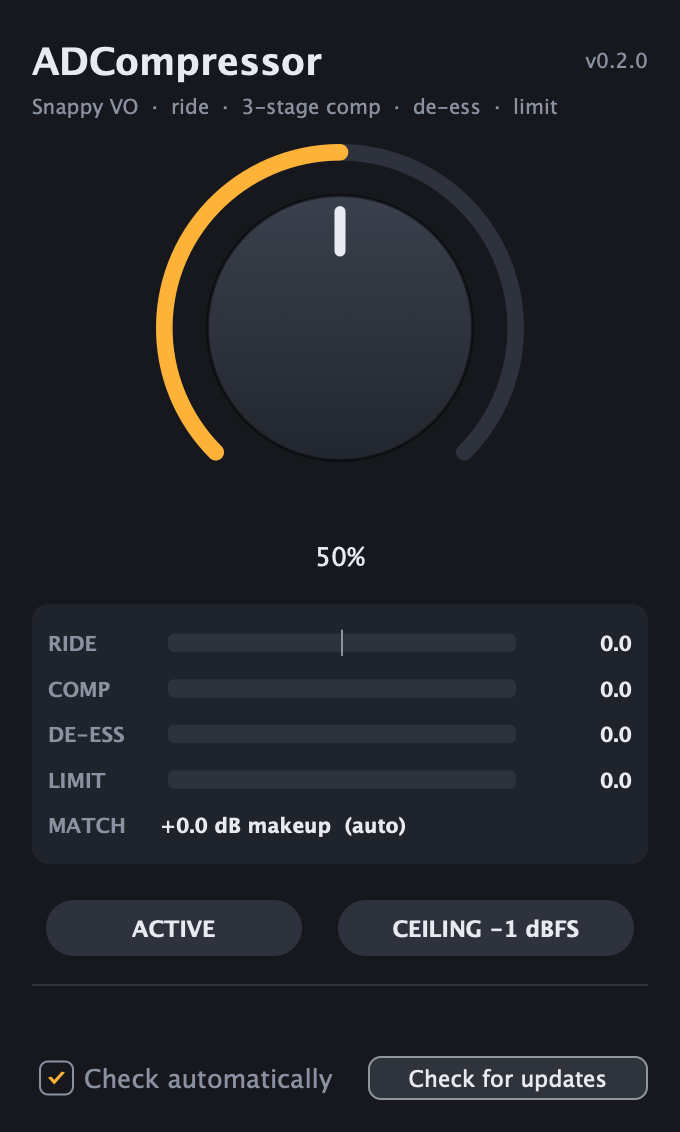
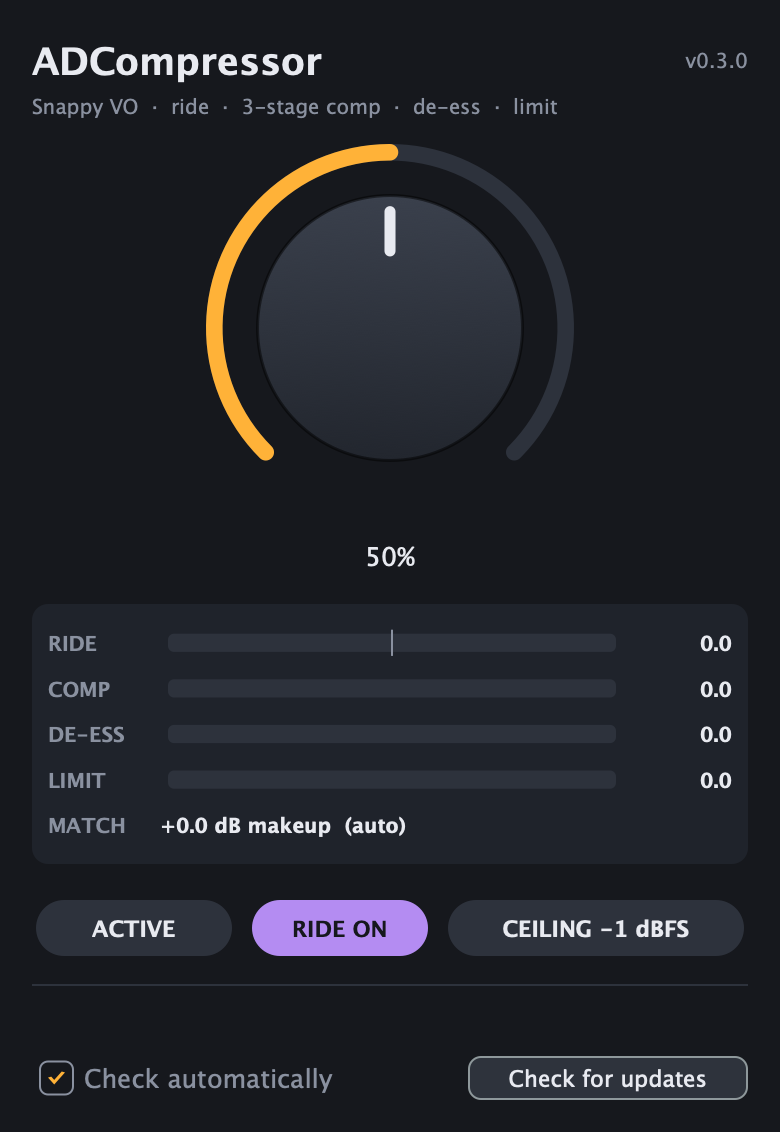
ADCompressor 0.3.0: Ride switch to turn the slow rider on or off
- New "ride" parameter (Ride, on by default), so sessions saved by
  earlier versions sound the same. When off, the rider's gain glides to
  0 dB over 200 ms (click-free during playback). The rider keeps
  learning while off, so it resumes at its learned level when turned
  back on. The compressors, de-esser, limiter and loudness match are
  unchanged.
- RIDE meter shows the gain actually applied (0 when off).
- Editor: purple RIDE ON / RIDE OFF pill between Bypass and Ceiling;
  window 390x566 (was 340) so three pills fit in one row.
- TestHost: alternating-level lines test (ride on vs off; ride off keeps
  the loudness match); --render-to takes an optional [on|off] ride arg.
- README and screenshot updated.

New parameter only; no identity or existing parameter changes.

diff --git a/Tests/TestHost.cpp b/Tests/TestHost.cpp
@@ -8,7 +8,7 @@
 // Usage:
 //   ADCompressorTest                       run the test suite
 //   ADCompressorTest --render take.wav     render a take at 0/50/100% next to it
-//   ADCompressorTest --render-to in.wav out.wav [amount] [ceiling]   one offline bounce (e.g. 100 -6)
+//   ADCompressorTest --render-to in.wav out.wav [amount] [ceiling] [ride]   one offline bounce (e.g. 100 -6 off)
 //   ADCompressorTest --calibrate take.wav  print steady-state makeup per knob position
 //   ADCompressorTest --trace [sampleRate]  print the learned reference/trim over time
 
@@ -269,7 +269,7 @@ int main (int argc, char* argv[])
         return 0;
     }
 
-    // --render-to <in.wav> <out.wav> [amount 0..100] [ceiling -1|-6]: one bounce
+    // --render-to <in.wav> <out.wav> [amount 0..100] [ceiling -1|-6] [ride on|off]: one bounce
     // through the plugin (like an offline bounce in a DAW), latency removed.
     if (argc >= 4 && juce::String (argv[1]) == "--render-to")
     {
@@ -278,11 +278,13 @@ int main (int argc, char* argv[])
         if (! reader) { std::cerr << "Can't read " << argv[2] << "\n"; return 1; }
         const float amount = argc >= 5 ? juce::String (argv[4]).getFloatValue() : 100.0f;
         const bool minus6 = argc >= 6 && juce::String (argv[5]).getFloatValue() < -3.0f;
+        const bool rideOn = ! (argc >= 7 && juce::String (argv[6]).equalsIgnoreCase ("off"));
         const int nCh = (int) std::min<unsigned> (2, reader->numChannels);
         const double sr = reader->sampleRate;
         auto inst = load (sr, 512, nCh);
         findParam (*inst, "Amount")->setValueNotifyingHost (amount / 100.0f);
         findParam (*inst, "Ceiling")->setValueNotifyingHost (minus6 ? 1.0f : 0.0f);
+        findParam (*inst, "Ride")->setValueNotifyingHost (rideOn ? 1.0f : 0.0f);
         const int lat = inst->getLatencySamples();
         juce::AudioBuffer<float> buf (nCh, (int) reader->lengthInSamples + lat);
         buf.clear();
@@ -298,7 +300,7 @@ int main (int argc, char* argv[])
                                                  .withSampleRate (sr).withNumChannels (nCh).withBitsPerSample (24));
         if (! w || ! w->writeFromAudioSampleBuffer (trimmed, 0, trimmed.getNumSamples())) { std::cerr << "Write failed\n"; return 1; }
         std::cout << "Rendered " << dest.getFullPathName() << " (" << amount << "%, ceiling " << (minus6 ? -6 : -1)
-                  << " dBFS, latency " << lat << ")\n";
+                  << " dBFS, ride " << (rideOn ? "on" : "off") << ", latency " << lat << ")\n";
         return 0;
     }
 
@@ -425,6 +427,39 @@ int main (int argc, char* argv[])
             const double lraOut = loudnessRange (run (*inst, scenes, cfg.block), cfg.sr, settle);
             std::cout << "  scene changes @100%: LRA " << juce::String (lraIn, 1) << " -> " << juce::String (lraOut, 1) << " LU\n";
             check (lraOut < lraIn * 0.5, "full amount at least halves loudness range (LRA) across scene changes");
+        }
+
+        // Ride switch. Lines alternate loud/quiet (8 dB apart, 3 s each, 1 s gaps):
+        // the level differences the rider evens out. Off must leave more of them.
+        {
+            const int line = (int) (3.0 * cfg.sr), gap = (int) (1.0 * cfg.sr);
+            const int nLines = 40;
+            juce::AudioBuffer<float> lines (cfg.nCh, nLines * (line + gap));
+            lines.clear();
+            for (int l = 0; l < nLines; ++l)
+            {
+                const auto v = makeVoice (cfg.sr, 3.0, cfg.nCh, (l % 2) ? -22.0f : -14.0f, 900u + (unsigned) l);
+                for (int ch = 0; ch < cfg.nCh; ++ch) lines.copyFrom (ch, l * (line + gap), v, ch, 0, line);
+            }
+            auto runRide = [&] (bool on)
+            {
+                auto inst = load (cfg.sr, cfg.block, cfg.nCh);
+                findParam (*inst, "Amount")->setValueNotifyingHost (1.0f);
+                auto* ride = findParam (*inst, "Ride");
+                check (ride != nullptr && ride->getValue() > 0.5f, "plugin exposes a Ride parameter, on by default");
+                ride->setValueNotifyingHost (on ? 1.0f : 0.0f);
+                return run (*inst, lines, cfg.block);
+            };
+            const auto onOut = runRide (true), offOut = runRide (false);
+            const double lraIn = loudnessRange (lines, cfg.sr, settle);
+            const double lraOn = loudnessRange (onOut, cfg.sr, settle), lraOff = loudnessRange (offOut, cfg.sr, settle);
+            const auto lIn = measure (lines, cfg.sr, settle), lOn = measure (onOut, cfg.sr, settle), lOff = measure (offOut, cfg.sr, settle);
+            std::cout << "  alternating lines @100%: LRA " << juce::String (lraIn, 1) << " -> ride on "
+                      << juce::String (lraOn, 1) << " (diff " << juce::String (lOn.integrated - lIn.integrated, 2)
+                      << " dB), ride off " << juce::String (lraOff, 1) << " LU (diff "
+                      << juce::String (lOff.integrated - lIn.integrated, 2) << " dB)\n";
+            check (lraOn < lraOff - 0.5, "Ride on evens out line-to-line level; off leaves it");
+            check (std::abs (lOff.integrated - lIn.integrated) < 1.0, "ride off: loudness matched within 1 dB");
         }
     }
 

diff --git a/Source/VoiceChain.h b/Source/VoiceChain.h
@@ -499,6 +499,7 @@ public:
         amountSmoothed.reset (sr, 0.05);
         ceilingSmoothed.reset (sr, 0.05);
         mix.reset (sr, 0.02);
+        rideMix.reset (sr, 0.2);
         mix.setCurrentAndTargetValue (1.0f);
         firstBlock = true;
         lastPresenceDb = -1000.0f;
@@ -540,8 +541,10 @@ public:
     }
 
     // ceilingDb: limiter ceiling in dBFS (the plugin offers -1 or -6); changes glide over 50 ms.
+    // rideOn: the rider's gain glides to 0 dB when off (it keeps learning, so it
+    // picks up where it left off when switched back on).
     void process (juce::AudioBuffer<float>& buffer, float amountTarget, bool bypassed,
-                  float ceilingDb = kDefaultCeilingDb) noexcept
+                  float ceilingDb = kDefaultCeilingDb, bool rideOn = true) noexcept
     {
         const int n = buffer.getNumSamples();
         const int nCh = std::min (channels, buffer.getNumChannels());
@@ -556,10 +559,12 @@ public:
             amountSmoothed.setCurrentAndTargetValue (amountTarget);
             ceilingSmoothed.setCurrentAndTargetValue (ceilingDb);
             mix.setCurrentAndTargetValue (bypassed ? 0.0f : 1.0f);
+            rideMix.setCurrentAndTargetValue (rideOn ? 1.0f : 0.0f);
             firstBlock = false;
         }
         amountSmoothed.setTargetValue (amountTarget);
         mix.setTargetValue (bypassed ? 0.0f : 1.0f);
+        rideMix.setTargetValue (rideOn ? 1.0f : 0.0f);
         ceilingSmoothed.setTargetValue (ceilingDb);
 
         auto* const* data = buffer.getArrayOfWritePointers();
@@ -685,7 +690,8 @@ public:
                 }
 
                 // --- Makeup: predicted curve + slow trim + ride, minus pre-gain
-                const float makeup = dbToGain (makeupDb + rideDb) / preD; // exact inverse of the pre-gain
+                rideOutDb = rideDb * rideMix.getNextValue(); // Ride switch (glides 200 ms)
+                const float makeup = dbToGain (makeupDb + rideOutDb) / preD; // exact inverse of the pre-gain
                 for (int ch = 0; ch < nCh; ++ch) y[ch] *= makeup;
 
                 // --- Brickwall limiter (adds latency) -----------------------
@@ -743,7 +749,7 @@ public:
             publishedValid.store (true);
         }
 
-        meters.rideDb.store (rideDb);
+        meters.rideDb.store (rideOutDb);
         meters.compGrDb.store (maxComp);
         meters.deEssGrDb.store (maxDs);
         meters.limitGrDb.store (maxLim);
@@ -871,7 +877,7 @@ private:
     GatedLoudness trimIn, trimOut;
 
     double rideShortPow = 0, rideLongPow = 0, rideSamples = 0, rideMinSamples = 1;
-    float rideFastPow = 0, rideShortCoef = 0, rideGainCoef = 0, rideDb = 0, rideTargetDb = 0, rideStrength = 0;
+    float rideFastPow = 0, rideShortCoef = 0, rideGainCoef = 0, rideDb = 0, rideTargetDb = 0, rideStrength = 0, rideOutDb = 0;
 
     Calibration learned;
     std::atomic<float> pendingInputLufs { -100.0f }, pendingTrimDb { 0.0f }, pendingRideLufs { -100.0f };
@@ -885,6 +891,7 @@ private:
     juce::SmoothedValue<float, juce::ValueSmoothingTypes::Linear> amountSmoothed;
     juce::SmoothedValue<float, juce::ValueSmoothingTypes::Linear> ceilingSmoothed;
     juce::SmoothedValue<float, juce::ValueSmoothingTypes::Linear> mix;
+    juce::SmoothedValue<float, juce::ValueSmoothingTypes::Linear> rideMix; // Ride switch
 };
 
 } // namespace ad

diff --git a/Source/PluginProcessor.cpp b/Source/PluginProcessor.cpp
@@ -10,7 +10,8 @@ ADCompressorProcessor::ADCompressorProcessor()
     amountParam = apvts.getRawParameterValue (amountId);
     bypassParam = dynamic_cast<juce::AudioParameterBool*> (apvts.getParameter (bypassId));
     ceilingParam = dynamic_cast<juce::AudioParameterChoice*> (apvts.getParameter (ceilingId));
-    jassert (amountParam != nullptr && bypassParam != nullptr && ceilingParam != nullptr);
+    rideParam = dynamic_cast<juce::AudioParameterBool*> (apvts.getParameter (rideId));
+    jassert (amountParam != nullptr && bypassParam != nullptr && ceilingParam != nullptr && rideParam != nullptr);
 }
 
 juce::AudioProcessorValueTreeState::ParameterLayout ADCompressorProcessor::createLayout()
@@ -31,6 +32,10 @@ juce::AudioProcessorValueTreeState::ParameterLayout ADCompressorProcessor::creat
     // recorded with headroom (on hot takes it limits consonants audibly).
     layout.add (std::make_unique<juce::AudioParameterChoice> (
         juce::ParameterID { ceilingId, 1 }, "Ceiling", juce::StringArray { "-1 dBFS", "-6 dBFS" }, 0));
+
+    // Slow rider on/off. Defaults to on, so sessions saved before 0.3 sound the same.
+    layout.add (std::make_unique<juce::AudioParameterBool> (
+        juce::ParameterID { rideId, 2 }, "Ride", true));
 
     return layout;
 }
@@ -57,7 +62,7 @@ void ADCompressorProcessor::processBlock (juce::AudioBuffer<float>& buffer, juce
         buffer.clear (ch, 0, buffer.getNumSamples());
 
     chain.process (buffer, amountParam->load() / 100.0f, bypassParam->get(),
-                   ceilingParam->getIndex() == 1 ? -6.0f : -1.0f);
+                   ceilingParam->getIndex() == 1 ? -6.0f : -1.0f, rideParam->get());
 }
 
 void ADCompressorProcessor::getStateInformation (juce::MemoryBlock& destData)

diff --git a/Source/PluginEditor.cpp b/Source/PluginEditor.cpp
@@ -33,9 +33,17 @@ ADCompressorEditor::ADCompressorEditor (ADCompressorProcessor& p)
     ceilingAttachment = std::make_unique<juce::AudioProcessorValueTreeState::ButtonAttachment> (
         p.apvts, ADCompressorProcessor::ceilingId, ceilingButton);
 
+    // Ride switch: the slow line-to-line rider, on by default.
+    makePill (rideButton, "RIDE OFF", "RIDE ON", juce::Colour (0xffb48cf2));
+    rideButton.setTooltip ("Slow rider: evens out line-to-line level like a fader ride. Turn it off to keep "
+                           "the natural level differences between lines (the compressors still work).");
+    addAndMakeVisible (rideButton);
+    rideAttachment = std::make_unique<juce::AudioProcessorValueTreeState::ButtonAttachment> (
+        p.apvts, ADCompressorProcessor::rideId, rideButton);
+
     addAndMakeVisible (footer);
 
-    setSize (340, 566);
+    setSize (390, 566);
     startTimerHz (30);
 }
 
@@ -145,9 +153,12 @@ void ADCompressorEditor::resized()
 
     auto bottom = area.removeFromBottom (36);
     {
-        auto row = bottom.withSizeKeepingCentre (296, 30);
-        bypassButton.setBounds (row.removeFromLeft (130));
+        auto row = bottom.withSizeKeepingCentre (356, 30);
+        bypassButton.setBounds (row.removeFromLeft (100));
         ceilingButton.setBounds (row.removeFromRight (150));
+        row.removeFromLeft (8);
+        row.removeFromRight (8);
+        rideButton.setBounds (row);
     }
     area.removeFromBottom (14);
 

diff --git a/Source/PluginProcessor.h b/Source/PluginProcessor.h
@@ -43,6 +43,7 @@ public:
     static constexpr const char* amountId = "amount";
     static constexpr const char* bypassId = "bypass";
     static constexpr const char* ceilingId = "ceiling"; // 0 = -1 dBFS, 1 = -6 dBFS
+    static constexpr const char* rideId = "ride";       // slow rider on/off (added in 0.3.0)
 
 private:
     static juce::AudioProcessorValueTreeState::ParameterLayout createLayout();
@@ -51,6 +52,7 @@ private:
     std::atomic<float>* amountParam = nullptr;
     juce::AudioParameterBool* bypassParam = nullptr;
     juce::AudioParameterChoice* ceilingParam = nullptr;
+    juce::AudioParameterBool* rideParam = nullptr;
 
     JUCE_DECLARE_NON_COPYABLE_WITH_LEAK_DETECTOR (ADCompressorProcessor)
 };

diff --git a/Source/PluginEditor.h b/Source/PluginEditor.h
@@ -26,12 +26,14 @@ private:
     juce::Slider knob;
     juce::ToggleButton bypassButton { "Bypass" };
     juce::ToggleButton ceilingButton { "Ceiling" };
+    juce::ToggleButton rideButton { "Ride" };
 
     UpdateFooter footer;
 
     juce::AudioProcessorValueTreeState::SliderAttachment knobAttachment;
     juce::AudioProcessorValueTreeState::ButtonAttachment bypassAttachment;
     std::unique_ptr<juce::AudioProcessorValueTreeState::ButtonAttachment> ceilingAttachment;
+    std::unique_ptr<juce::AudioProcessorValueTreeState::ButtonAttachment> rideAttachment;
 
     float ride = 0, compGr = 0, deEssGr = 0, limitGr = 0, makeup = 0;
     juce::Rectangle<float> meterArea;

diff --git a/README.md b/README.md
@@ -27,6 +27,11 @@ your delivery spec asks for peaks at or below −6 and your takes are recorded w
 consonants. Note that this is a sample-peak limiter: if your spec is in dBTP (true peak), keep a
 true-peak limiter on your final mix as well.
 
+**Ride** (on by default) switches the slow line-to-line rider on or off. Turn it off to keep the
+natural level differences between lines (the compressors, de-esser and limiter still work as
+usual, and the loudness match is unchanged). The switch glides over 200 ms, so you can flip it
+during playback.
+
 Double-click the knob to return to 50%. **Bypass** (also linked to your DAW's bypass) crossfades
 over 20 ms to a time-aligned dry signal, so A/B switching is click-free. The meters show the rider's gain
 (**RIDE**, from the centre: right lifts, left cuts), gain reduction for **COMP** (all three compressor
@@ -40,7 +45,7 @@ stages), **DE-ESS** and **LIMIT**, plus the current makeup gain.
 | 1. Leveler | RMS, 15 ms attack / 180 ms release, 10 dB soft knee, **20 ms lookahead**: evens out phrase-to-phrase level | ratio 1:1 → 3.5:1 |
 | 2. Snap compressor | Peak, **3 ms attack** lets consonant onsets through before clamping, 60 ms release: the "snap" | ratio 1:1 → 6:1 |
 | 3. Peak catcher | 20:1, 0.3 ms attack, a few dB above stage 2: trims the transients stage 2 let through | off → on |
-| Rider | Evens out line-to-line level like a fader ride. Compares the compressed level over the last ~200 ms of speech with the long-term average and glides toward the difference (80 ms). Holds still between lines, so gaps don't pump and room tone isn't lifted | off → full, within ±6 dB |
+| Rider | Evens out line-to-line level like a fader ride. Compares the compressed level over the last ~200 ms of speech with the long-term average and glides toward the difference (80 ms). Holds still between lines, so gaps don't pump and room tone isn't lifted | off → full, within ±6 dB (**Ride** switch turns it off) |
 | Presence | High shelf at 4 kHz | 0 → +3.5 dB |
 | De-esser | Split-band at 6 kHz, follows the voice (relative to the full band), not a fixed threshold | 0 → up to 10 dB |
 | Makeup | Predicted makeup for the knob position (instant) plus a slow trim measured the way a LUFS meter does | 0 → ~11 dB |
